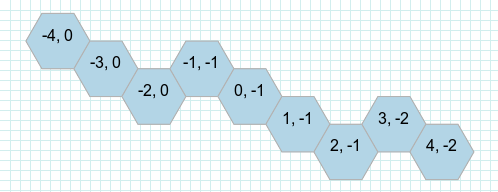
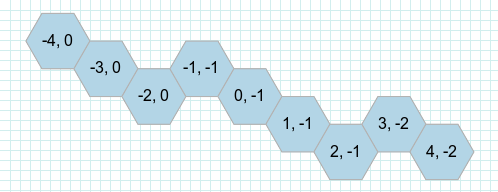
center text in hexagons

diff --git a/lib/rhex/draw/hexagon.rb b/lib/rhex/draw/hexagon.rb
@@ -60,7 +60,7 @@ module Rhex
         gc.font_size(config.font_size)
 
         gc.text(
-          coordinates.x, coordinates.y,
+          coordinates.x, coordinates.y + (config.font_size / Math::PI),
           "#{hex.q}, #{hex.r}"
         )
       end
